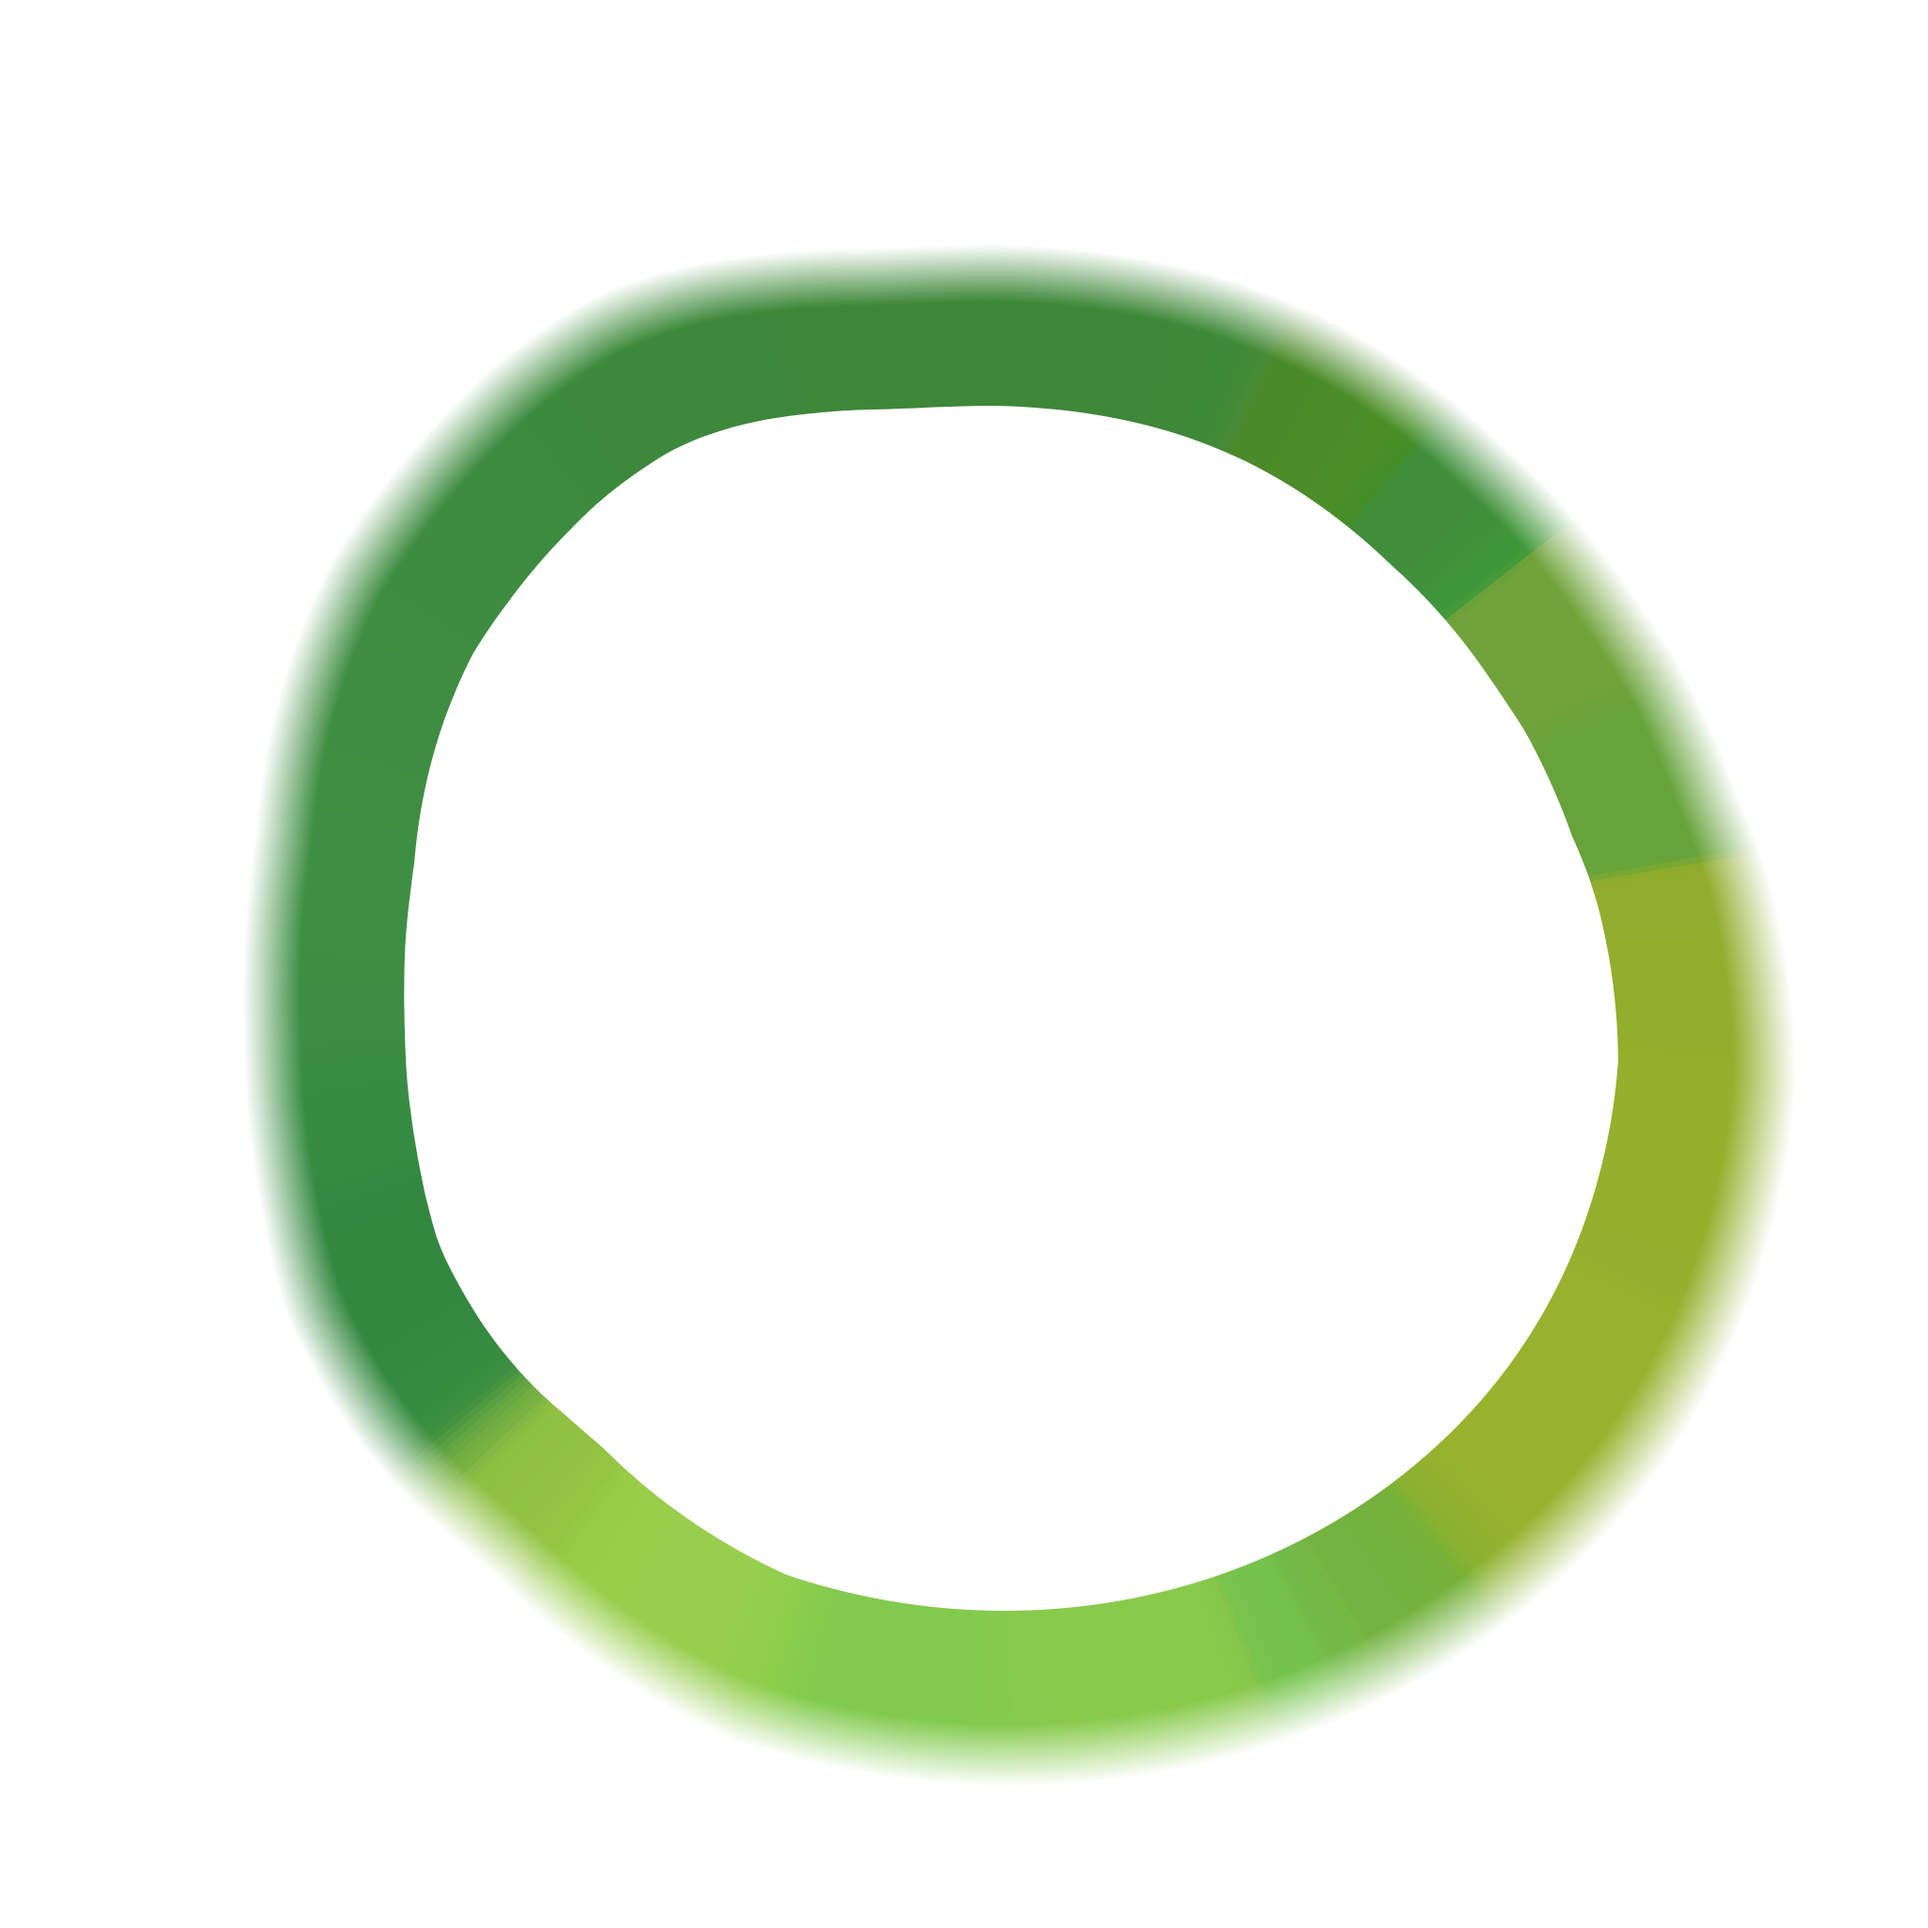
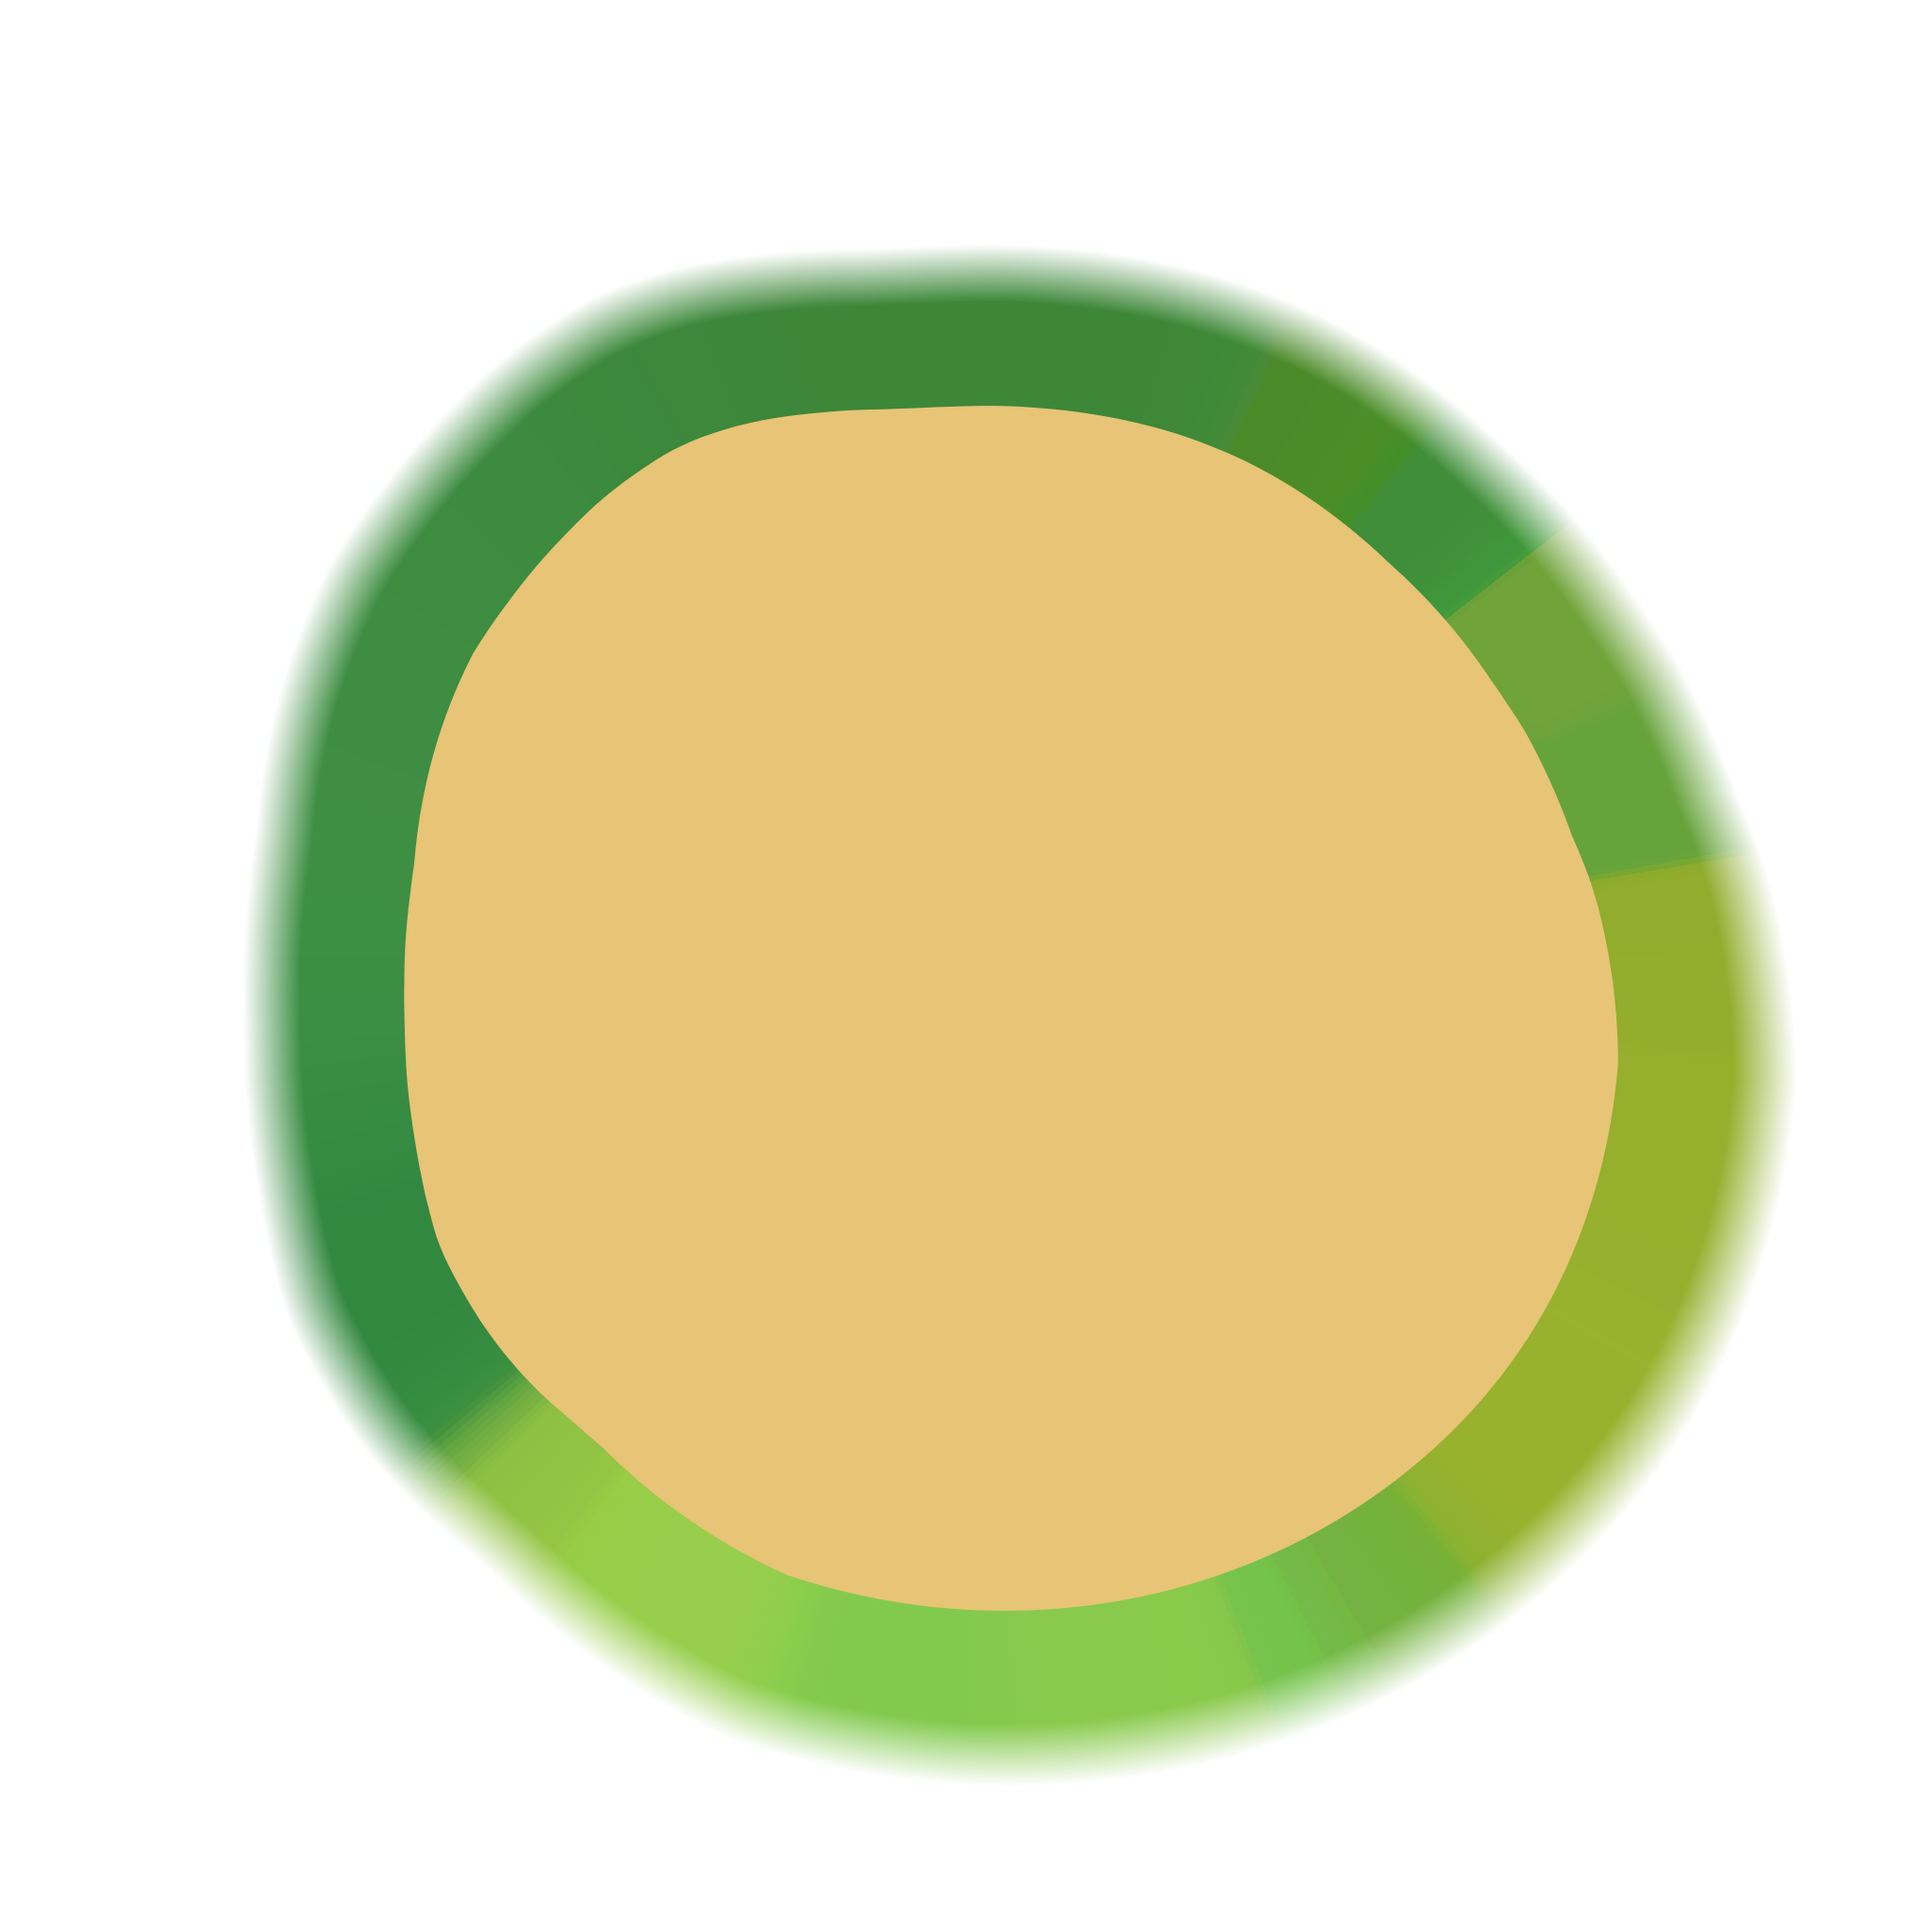
Olhos novos: branco do globo em #F4E3B5 (dourado suave, para combinar com o olho antigo)
Claude-Session: https://claude.ai/code/session_01TTv95JaJ6mtbt8CnqE9stn

diff --git a/kumo-3d-rodin/v6-dev/olhos-novos/src/olhos_novos.py b/kumo-3d-rodin/v6-dev/olhos-novos/src/olhos_novos.py
@@ -86,6 +86,10 @@ ys, xs = np.nonzero(A['circulo'][..., 3] > 0.5)
 ART_C = np.array([(xs.min() + xs.max() + 1) / 2, (ys.min() + ys.max() + 1) / 2])     # centro do contorno (px, y para cima)
 ART_R = float(np.hypot(xs + 0.5 - ART_C[0], ys + 0.5 - ART_C[1]).max())                # raio de fora do contorno
 BRANCO = A['globo'][int(ART_C[1]), int(ART_C[0]), :3].copy()
+# 25/11, pedido do Caio: o branco do globo em tom dourado suave (#F4E3B5), para não destoar do olho antigo (#E4BF74).
+# O valor vem em sRGB e vai para linear, como a arte que o Blender lê.
+_hex = np.array([0xF4, 0xE3, 0xB5], np.float32) / 255
+BRANCO = np.where(_hex <= 0.04045, _hex / 12.92, ((_hex + 0.055) / 1.055) ** 2.4).astype(np.float32)
 REP['arte'] = {'centro_px': ART_C.round(1).tolist(), 'raio_externo_px': round(ART_R, 1), 'branco': BRANCO.round(3).tolist()}
 # a imagem do decal: íris com a pupila por cima, no quadro da arte
 if os.path.exists(IRIS_PUPILA):
